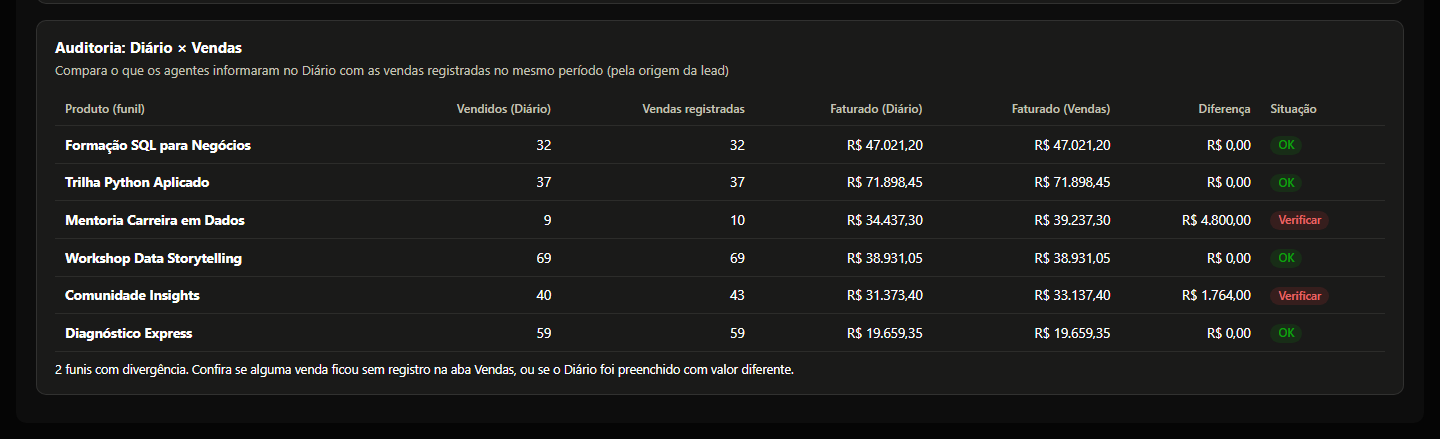
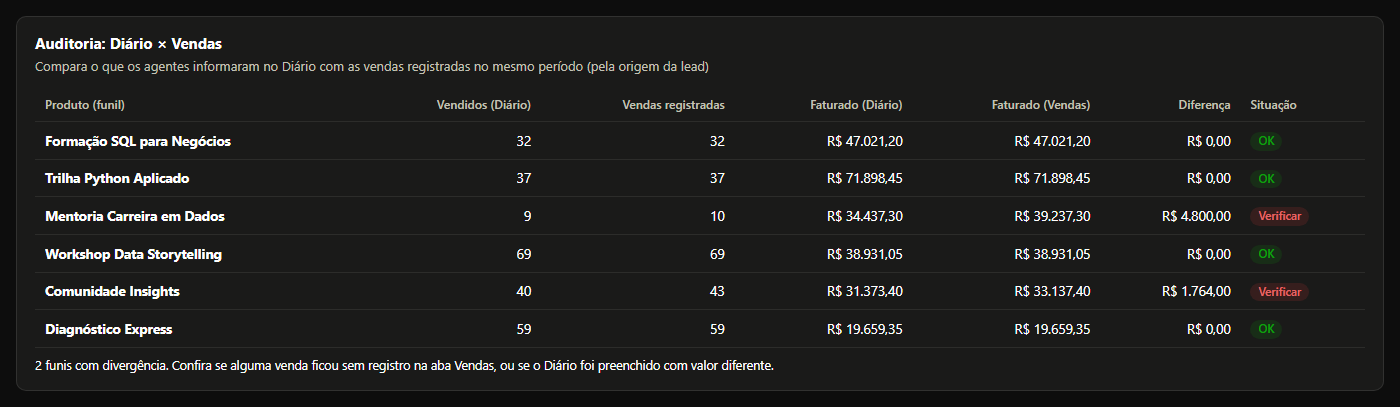
README: capturas do celular e da auditoria sem cortes
A captura do celular vai do topo até o fim da última linha de indicadores,
e a da auditoria mostra só o card da auditoria, inteiro. Ambas no tema escuro,
como as demais.

diff --git a/README.md b/README.md
@@ -36,7 +36,7 @@ Todos os números de um período são comparados com o período anterior de mesm
 | | |
 |---|---|
 | ![Tendências: faturamento × meta por semana e por produto](docs/capturas/tendencias.png) | ![Dashboard de um agente: funil, taxas, renda dos leads e vendas](docs/capturas/dashboard-agente.png) |
-| ![Renda dos leads: distribuição por faixa, por produto e por semana](docs/capturas/renda-dos-leads.png) | ![Versão para celular](docs/capturas/celular.png) |
+| ![Renda dos leads: distribuição por faixa, por produto e por semana](docs/capturas/renda-dos-leads.png) | ![Indicadores do Painel no celular](docs/capturas/celular.png) |
 
 ## Regras de negócio que fazem diferença
 
